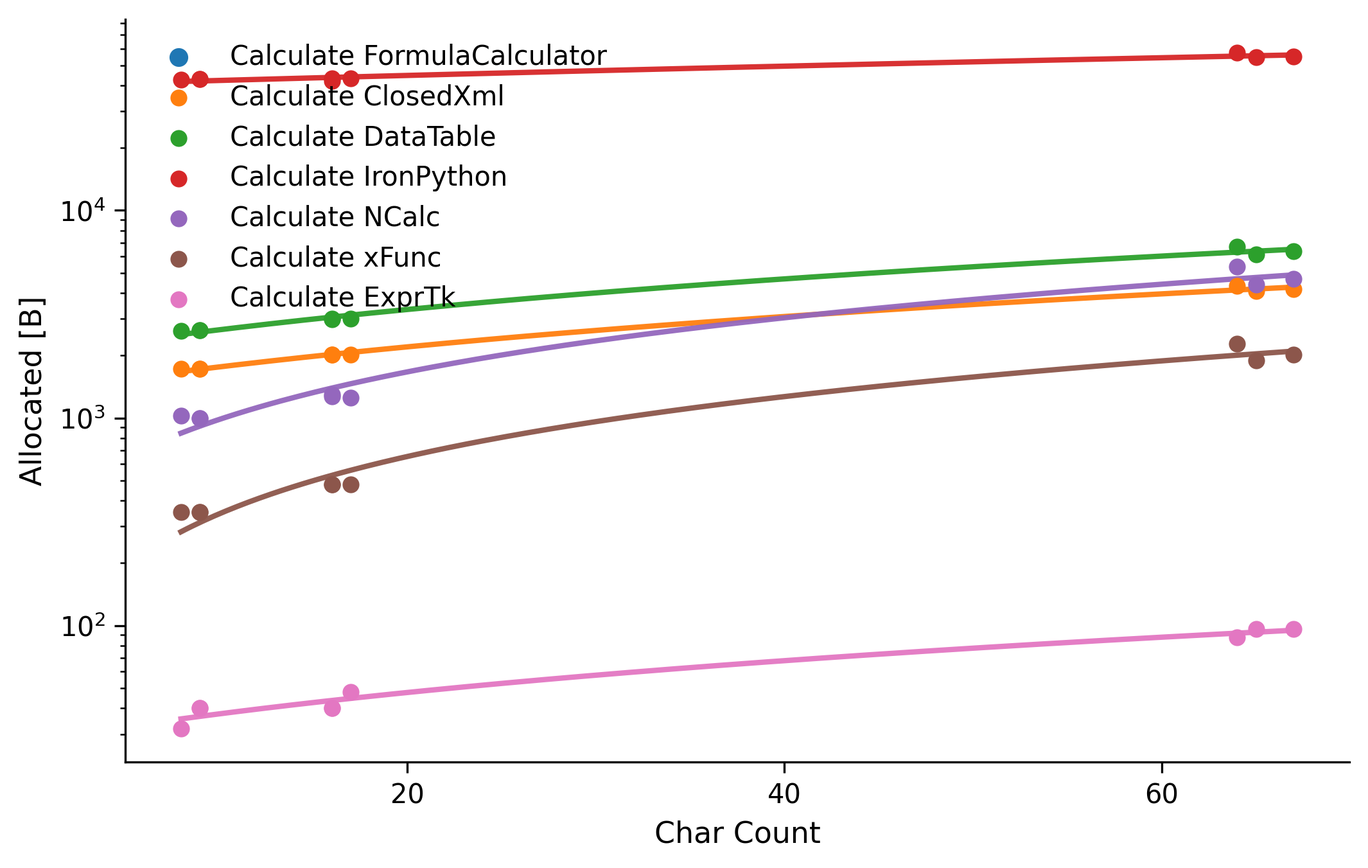
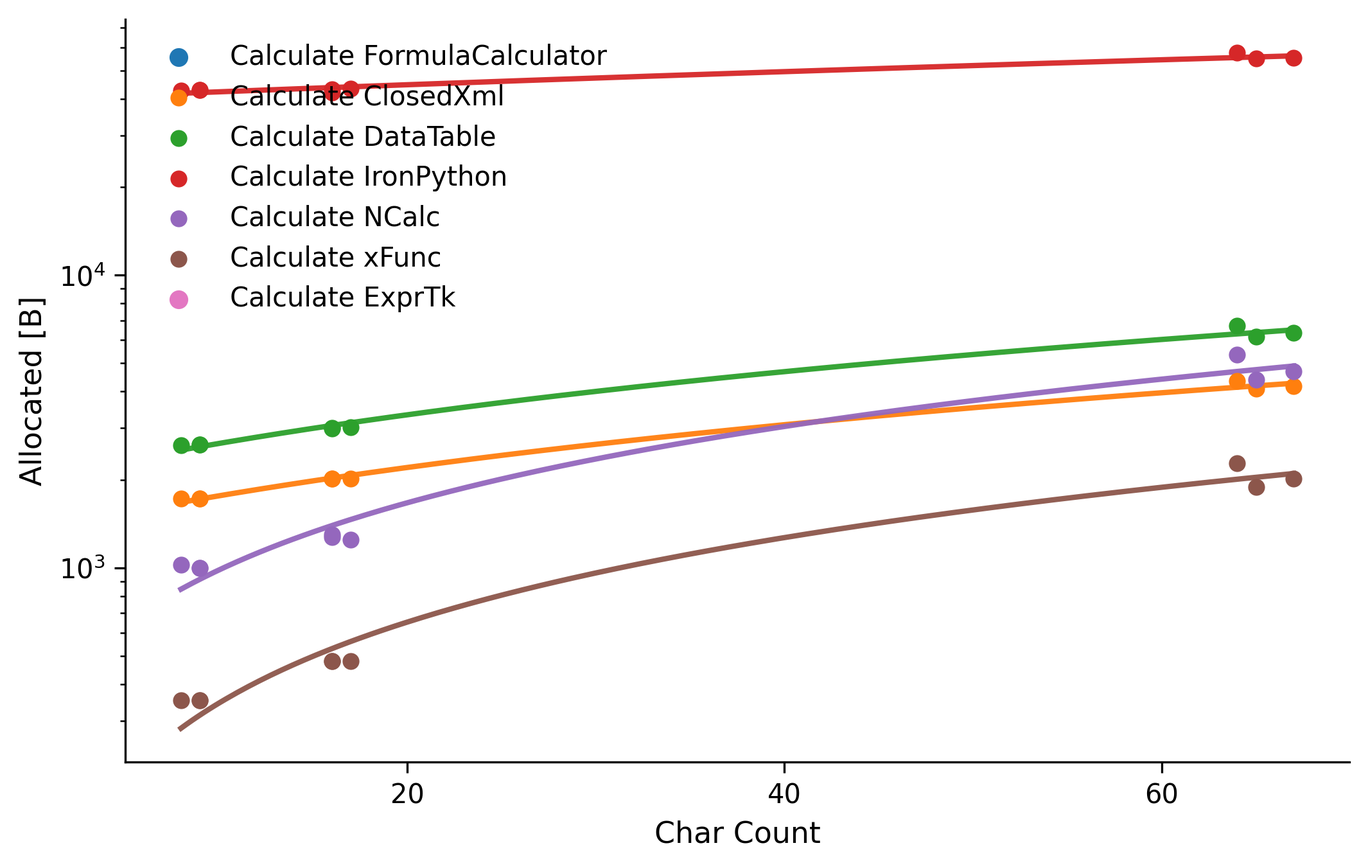
Enable unsafe code and optimize expression calculation in benchmarks

diff --git a/dotnet/BenchmarkResults/BenchmarkLibraryComparisonResult.html b/dotnet/BenchmarkResults/BenchmarkLibraryComparisonResult.html
@@ -2,7 +2,7 @@
 <html lang='en'>
 <head>
 <meta charset='utf-8' />
-<title>foriver4725.FormulaCalculator.Benchmarks.LibraryComparison.Benchmarks-20260329-223422</title>
+<title>foriver4725.FormulaCalculator.Benchmarks.LibraryComparison.Benchmarks-20260403-201037</title>
 
 <style type="text/css">
 	table { border-collapse: collapse; display: block; width: 100%; overflow: auto; }
@@ -24,69 +24,69 @@ Apple M3, 1 CPU, 8 logical and 8 physical cores
 <table>
 <thead><tr><th>Method               </th><th>Input</th><th>Case</th><th>Char Count</th><th>Mean  </th><th>Error</th><th>StdDev</th><th>Gen0</th><th>Gen1</th><th>Allocated</th>
 </tr>
-</thead><tbody><tr><td>Calculate_FormulaCalculator</td><td>Len08_A</td><td>Len08_A</td><td>8</td><td>21.67 ns</td><td>0.161 ns</td><td>0.150 ns</td><td>-</td><td>-</td><td>-</td>
-</tr><tr><td>Calculate_FormulaCalculator</td><td>Len08_B</td><td>Len08_B</td><td>9</td><td>23.16 ns</td><td>0.097 ns</td><td>0.086 ns</td><td>-</td><td>-</td><td>-</td>
-</tr><tr><td>Calculate_FormulaCalculator</td><td>Len08_C</td><td>Len08_C</td><td>9</td><td>22.02 ns</td><td>0.082 ns</td><td>0.068 ns</td><td>-</td><td>-</td><td>-</td>
-</tr><tr><td>Calculate_FormulaCalculator</td><td>Len16_A</td><td>Len16_A</td><td>16</td><td>36.86 ns</td><td>0.176 ns</td><td>0.156 ns</td><td>-</td><td>-</td><td>-</td>
-</tr><tr><td>Calculate_FormulaCalculator</td><td>Len16_B</td><td>Len16_B</td><td>16</td><td>35.18 ns</td><td>0.183 ns</td><td>0.143 ns</td><td>-</td><td>-</td><td>-</td>
-</tr><tr><td>Calculate_FormulaCalculator</td><td>Len16_C</td><td>Len16_C</td><td>17</td><td>34.83 ns</td><td>0.210 ns</td><td>0.186 ns</td><td>-</td><td>-</td><td>-</td>
-</tr><tr><td>Calculate_FormulaCalculator</td><td>Len64_A</td><td>Len64_A</td><td>64</td><td>193.33 ns</td><td>2.758 ns</td><td>2.580 ns</td><td>-</td><td>-</td><td>-</td>
-</tr><tr><td>Calculate_FormulaCalculator</td><td>Len64_B</td><td>Len64_B</td><td>65</td><td>161.59 ns</td><td>2.408 ns</td><td>2.253 ns</td><td>-</td><td>-</td><td>-</td>
-</tr><tr><td>Calculate_FormulaCalculator</td><td>Len64_C</td><td>Len64_C</td><td>67</td><td>177.57 ns</td><td>3.569 ns</td><td>3.339 ns</td><td>-</td><td>-</td><td>-</td>
-</tr><tr><td>Calculate_ClosedXml</td><td>Len08_A</td><td>Len08_A</td><td>8</td><td>835.39 ns</td><td>6.488 ns</td><td>6.069 ns</td><td>0.2050</td><td>-</td><td>1720 B</td>
-</tr><tr><td>Calculate_ClosedXml</td><td>Len08_B</td><td>Len08_B</td><td>9</td><td>847.96 ns</td><td>5.792 ns</td><td>5.134 ns</td><td>0.2050</td><td>-</td><td>1720 B</td>
-</tr><tr><td>Calculate_ClosedXml</td><td>Len08_C</td><td>Len08_C</td><td>9</td><td>843.21 ns</td><td>4.962 ns</td><td>4.642 ns</td><td>0.2050</td><td>-</td><td>1720 B</td>
-</tr><tr><td>Calculate_ClosedXml</td><td>Len16_A</td><td>Len16_A</td><td>16</td><td>1,113.56 ns</td><td>4.290 ns</td><td>3.803 ns</td><td>0.2403</td><td>-</td><td>2016 B</td>
-</tr><tr><td>Calculate_ClosedXml</td><td>Len16_B</td><td>Len16_B</td><td>16</td><td>1,119.24 ns</td><td>2.089 ns</td><td>1.852 ns</td><td>0.2403</td><td>-</td><td>2016 B</td>
-</tr><tr><td>Calculate_ClosedXml</td><td>Len16_C</td><td>Len16_C</td><td>17</td><td>1,138.00 ns</td><td>10.711 ns</td><td>10.019 ns</td><td>0.2403</td><td>-</td><td>2016 B</td>
-</tr><tr><td>Calculate_ClosedXml</td><td>Len64_A</td><td>Len64_A</td><td>64</td><td>3,826.67 ns</td><td>11.647 ns</td><td>10.325 ns</td><td>0.5112</td><td>-</td><td>4336 B</td>
-</tr><tr><td>Calculate_ClosedXml</td><td>Len64_B</td><td>Len64_B</td><td>65</td><td>3,553.96 ns</td><td>17.985 ns</td><td>15.019 ns</td><td>0.4883</td><td>-</td><td>4096 B</td>
-</tr><tr><td>Calculate_ClosedXml</td><td>Len64_C</td><td>Len64_C</td><td>67</td><td>3,637.50 ns</td><td>14.947 ns</td><td>13.250 ns</td><td>0.4959</td><td>-</td><td>4176 B</td>
-</tr><tr><td>Calculate_DataTable</td><td>Len08_A</td><td>Len08_A</td><td>8</td><td>382.54 ns</td><td>6.775 ns</td><td>5.289 ns</td><td>0.3133</td><td>0.0005</td><td>2624 B</td>
-</tr><tr><td>Calculate_DataTable</td><td>Len08_B</td><td>Len08_B</td><td>9</td><td>419.52 ns</td><td>6.919 ns</td><td>6.134 ns</td><td>0.3152</td><td>0.0005</td><td>2640 B</td>
-</tr><tr><td>Calculate_DataTable</td><td>Len08_C</td><td>Len08_C</td><td>9</td><td>400.51 ns</td><td>6.673 ns</td><td>6.242 ns</td><td>0.3152</td><td>-</td><td>2640 B</td>
-</tr><tr><td>Calculate_DataTable</td><td>Len16_A</td><td>Len16_A</td><td>16</td><td>574.84 ns</td><td>2.596 ns</td><td>2.428 ns</td><td>0.3548</td><td>-</td><td>2992 B</td>
-</tr><tr><td>Calculate_DataTable</td><td>Len16_B</td><td>Len16_B</td><td>16</td><td>613.33 ns</td><td>3.158 ns</td><td>2.954 ns</td><td>0.3586</td><td>-</td><td>3000 B</td>
-</tr><tr><td>Calculate_DataTable</td><td>Len16_C</td><td>Len16_C</td><td>17</td><td>627.42 ns</td><td>3.460 ns</td><td>3.067 ns</td><td>0.3586</td><td>-</td><td>3016 B</td>
-</tr><tr><td>Calculate_DataTable</td><td>Len64_A</td><td>Len64_A</td><td>64</td><td>2,448.38 ns</td><td>8.338 ns</td><td>7.391 ns</td><td>0.8011</td><td>0.0038</td><td>6704 B</td>
-</tr><tr><td>Calculate_DataTable</td><td>Len64_B</td><td>Len64_B</td><td>65</td><td>2,309.91 ns</td><td>15.628 ns</td><td>14.618 ns</td><td>0.7324</td><td>-</td><td>6152 B</td>
-</tr><tr><td>Calculate_DataTable</td><td>Len64_C</td><td>Len64_C</td><td>67</td><td>2,352.75 ns</td><td>10.606 ns</td><td>9.921 ns</td><td>0.7477</td><td>-</td><td>6344 B</td>
-</tr><tr><td>Calculate_IronPython</td><td>Len08_A</td><td>Len08_A</td><td>8</td><td>10,207.28 ns</td><td>57.716 ns</td><td>53.988 ns</td><td>5.0964</td><td>0.4578</td><td>42683 B</td>
-</tr><tr><td>Calculate_IronPython</td><td>Len08_B</td><td>Len08_B</td><td>9</td><td>9,953.38 ns</td><td>68.044 ns</td><td>60.319 ns</td><td>5.1117</td><td>0.3815</td><td>42836 B</td>
-</tr><tr><td>Calculate_IronPython</td><td>Len08_C</td><td>Len08_C</td><td>9</td><td>10,447.36 ns</td><td>73.371 ns</td><td>61.268 ns</td><td>5.0659</td><td>0.3662</td><td>42828 B</td>
-</tr><tr><td>Calculate_IronPython</td><td>Len16_A</td><td>Len16_A</td><td>16</td><td>10,665.03 ns</td><td>93.897 ns</td><td>78.408 ns</td><td>5.1270</td><td>0.3662</td><td>43108 B</td>
-</tr><tr><td>Calculate_IronPython</td><td>Len16_B</td><td>Len16_B</td><td>16</td><td>10,135.15 ns</td><td>103.600 ns</td><td>80.884 ns</td><td>5.0049</td><td>0.4272</td><td>42044 B</td>
-</tr><tr><td>Calculate_IronPython</td><td>Len16_C</td><td>Len16_C</td><td>17</td><td>10,494.19 ns</td><td>106.510 ns</td><td>88.941 ns</td><td>5.1270</td><td>0.3662</td><td>43284 B</td>
-</tr><tr><td>Calculate_IronPython</td><td>Len64_A</td><td>Len64_A</td><td>64</td><td>18,796.86 ns</td><td>307.319 ns</td><td>256.625 ns</td><td>6.8359</td><td>0.4883</td><td>57486 B</td>
-</tr><tr><td>Calculate_IronPython</td><td>Len64_B</td><td>Len64_B</td><td>65</td><td>17,165.60 ns</td><td>161.917 ns</td><td>135.208 ns</td><td>6.4697</td><td>0.4883</td><td>54845 B</td>
-</tr><tr><td>Calculate_IronPython</td><td>Len64_C</td><td>Len64_C</td><td>67</td><td>17,294.58 ns</td><td>138.139 ns</td><td>115.352 ns</td><td>6.5918</td><td>0.4883</td><td>55197 B</td>
-</tr><tr><td>Calculate_NCalc</td><td>Len08_A</td><td>Len08_A</td><td>8</td><td>197.97 ns</td><td>0.774 ns</td><td>0.686 ns</td><td>0.1223</td><td>0.0002</td><td>1024 B</td>
-</tr><tr><td>Calculate_NCalc</td><td>Len08_B</td><td>Len08_B</td><td>9</td><td>190.17 ns</td><td>0.775 ns</td><td>0.687 ns</td><td>0.1194</td><td>-</td><td>1000 B</td>
-</tr><tr><td>Calculate_NCalc</td><td>Len08_C</td><td>Len08_C</td><td>9</td><td>190.28 ns</td><td>1.063 ns</td><td>0.994 ns</td><td>0.1194</td><td>0.0002</td><td>1000 B</td>
-</tr><tr><td>Calculate_NCalc</td><td>Len16_A</td><td>Len16_A</td><td>16</td><td>267.12 ns</td><td>1.076 ns</td><td>1.007 ns</td><td>0.1545</td><td>-</td><td>1296 B</td>
-</tr><tr><td>Calculate_NCalc</td><td>Len16_B</td><td>Len16_B</td><td>16</td><td>260.93 ns</td><td>0.883 ns</td><td>0.737 ns</td><td>0.1516</td><td>-</td><td>1272 B</td>
-</tr><tr><td>Calculate_NCalc</td><td>Len16_C</td><td>Len16_C</td><td>17</td><td>248.00 ns</td><td>1.163 ns</td><td>1.088 ns</td><td>0.1488</td><td>-</td><td>1248 B</td>
-</tr><tr><td>Calculate_NCalc</td><td>Len64_A</td><td>Len64_A</td><td>64</td><td>1,378.00 ns</td><td>2.235 ns</td><td>1.745 ns</td><td>0.6371</td><td>0.0019</td><td>5344 B</td>
-</tr><tr><td>Calculate_NCalc</td><td>Len64_B</td><td>Len64_B</td><td>65</td><td>1,149.37 ns</td><td>1.251 ns</td><td>1.109 ns</td><td>0.5226</td><td>0.0019</td><td>4384 B</td>
-</tr><tr><td>Calculate_NCalc</td><td>Len64_C</td><td>Len64_C</td><td>67</td><td>1,185.20 ns</td><td>2.262 ns</td><td>2.005 ns</td><td>0.5589</td><td>0.0019</td><td>4680 B</td>
-</tr><tr><td>Calculate_xFunc</td><td>Len08_A</td><td>Len08_A</td><td>8</td><td>346.66 ns</td><td>6.298 ns</td><td>5.891 ns</td><td>0.0420</td><td>-</td><td>352 B</td>
-</tr><tr><td>Calculate_xFunc</td><td>Len08_B</td><td>Len08_B</td><td>9</td><td>346.55 ns</td><td>6.905 ns</td><td>6.459 ns</td><td>0.0420</td><td>0.0005</td><td>352 B</td>
-</tr><tr><td>Calculate_xFunc</td><td>Len08_C</td><td>Len08_C</td><td>9</td><td>352.20 ns</td><td>6.798 ns</td><td>6.676 ns</td><td>0.0420</td><td>-</td><td>352 B</td>
-</tr><tr><td>Calculate_xFunc</td><td>Len16_A</td><td>Len16_A</td><td>16</td><td>594.41 ns</td><td>11.722 ns</td><td>10.965 ns</td><td>0.0572</td><td>-</td><td>480 B</td>
-</tr><tr><td>Calculate_xFunc</td><td>Len16_B</td><td>Len16_B</td><td>16</td><td>593.97 ns</td><td>8.729 ns</td><td>8.165 ns</td><td>0.0572</td><td>-</td><td>480 B</td>
-</tr><tr><td>Calculate_xFunc</td><td>Len16_C</td><td>Len16_C</td><td>17</td><td>602.53 ns</td><td>11.475 ns</td><td>11.270 ns</td><td>0.0572</td><td>-</td><td>480 B</td>
-</tr><tr><td>Calculate_xFunc</td><td>Len64_A</td><td>Len64_A</td><td>64</td><td>3,000.94 ns</td><td>51.652 ns</td><td>48.316 ns</td><td>0.2708</td><td>-</td><td>2272 B</td>
-</tr><tr><td>Calculate_xFunc</td><td>Len64_B</td><td>Len64_B</td><td>65</td><td>2,678.76 ns</td><td>52.636 ns</td><td>58.505 ns</td><td>0.2251</td><td>0.0038</td><td>1888 B</td>
-</tr><tr><td>Calculate_xFunc</td><td>Len64_C</td><td>Len64_C</td><td>67</td><td>2,742.38 ns</td><td>54.208 ns</td><td>50.706 ns</td><td>0.2403</td><td>-</td><td>2016 B</td>
-</tr><tr><td>Calculate_ExprTk</td><td>Len08_A</td><td>Len08_A</td><td>8</td><td>35,204.00 ns</td><td>680.899 ns</td><td>668.734 ns</td><td>-</td><td>-</td><td>32 B</td>
-</tr><tr><td>Calculate_ExprTk</td><td>Len08_B</td><td>Len08_B</td><td>9</td><td>35,349.75 ns</td><td>574.002 ns</td><td>536.922 ns</td><td>-</td><td>-</td><td>40 B</td>
-</tr><tr><td>Calculate_ExprTk</td><td>Len08_C</td><td>Len08_C</td><td>9</td><td>35,245.15 ns</td><td>677.272 ns</td><td>779.947 ns</td><td>-</td><td>-</td><td>40 B</td>
-</tr><tr><td>Calculate_ExprTk</td><td>Len16_A</td><td>Len16_A</td><td>16</td><td>36,427.32 ns</td><td>696.427 ns</td><td>715.179 ns</td><td>-</td><td>-</td><td>40 B</td>
-</tr><tr><td>Calculate_ExprTk</td><td>Len16_B</td><td>Len16_B</td><td>16</td><td>36,408.77 ns</td><td>722.211 ns</td><td>772.758 ns</td><td>-</td><td>-</td><td>40 B</td>
-</tr><tr><td>Calculate_ExprTk</td><td>Len16_C</td><td>Len16_C</td><td>17</td><td>36,624.77 ns</td><td>679.909 ns</td><td>667.761 ns</td><td>-</td><td>-</td><td>48 B</td>
-</tr><tr><td>Calculate_ExprTk</td><td>Len64_A</td><td>Len64_A</td><td>64</td><td>46,967.93 ns</td><td>742.558 ns</td><td>694.589 ns</td><td>-</td><td>-</td><td>88 B</td>
-</tr><tr><td>Calculate_ExprTk</td><td>Len64_B</td><td>Len64_B</td><td>65</td><td>44,581.59 ns</td><td>714.889 ns</td><td>668.707 ns</td><td>-</td><td>-</td><td>96 B</td>
-</tr><tr><td>Calculate_ExprTk</td><td>Len64_C</td><td>Len64_C</td><td>67</td><td>45,142.81 ns</td><td>851.772 ns</td><td>796.748 ns</td><td>-</td><td>-</td><td>96 B</td>
+</thead><tbody><tr><td>Calculate_FormulaCalculator</td><td>Len08_A</td><td>Len08_A</td><td>8</td><td>21.89 ns</td><td>0.458 ns</td><td>0.428 ns</td><td>-</td><td>-</td><td>-</td>
+</tr><tr><td>Calculate_FormulaCalculator</td><td>Len08_B</td><td>Len08_B</td><td>9</td><td>22.51 ns</td><td>0.157 ns</td><td>0.139 ns</td><td>-</td><td>-</td><td>-</td>
+</tr><tr><td>Calculate_FormulaCalculator</td><td>Len08_C</td><td>Len08_C</td><td>9</td><td>21.71 ns</td><td>0.097 ns</td><td>0.081 ns</td><td>-</td><td>-</td><td>-</td>
+</tr><tr><td>Calculate_FormulaCalculator</td><td>Len16_A</td><td>Len16_A</td><td>16</td><td>36.75 ns</td><td>0.148 ns</td><td>0.131 ns</td><td>-</td><td>-</td><td>-</td>
+</tr><tr><td>Calculate_FormulaCalculator</td><td>Len16_B</td><td>Len16_B</td><td>16</td><td>35.43 ns</td><td>0.324 ns</td><td>0.287 ns</td><td>-</td><td>-</td><td>-</td>
+</tr><tr><td>Calculate_FormulaCalculator</td><td>Len16_C</td><td>Len16_C</td><td>17</td><td>34.44 ns</td><td>0.216 ns</td><td>0.202 ns</td><td>-</td><td>-</td><td>-</td>
+</tr><tr><td>Calculate_FormulaCalculator</td><td>Len64_A</td><td>Len64_A</td><td>64</td><td>192.44 ns</td><td>2.133 ns</td><td>1.995 ns</td><td>-</td><td>-</td><td>-</td>
+</tr><tr><td>Calculate_FormulaCalculator</td><td>Len64_B</td><td>Len64_B</td><td>65</td><td>160.79 ns</td><td>2.478 ns</td><td>2.318 ns</td><td>-</td><td>-</td><td>-</td>
+</tr><tr><td>Calculate_FormulaCalculator</td><td>Len64_C</td><td>Len64_C</td><td>67</td><td>176.52 ns</td><td>3.545 ns</td><td>3.641 ns</td><td>-</td><td>-</td><td>-</td>
+</tr><tr><td>Calculate_ClosedXml</td><td>Len08_A</td><td>Len08_A</td><td>8</td><td>835.21 ns</td><td>3.478 ns</td><td>3.253 ns</td><td>0.2050</td><td>-</td><td>1720 B</td>
+</tr><tr><td>Calculate_ClosedXml</td><td>Len08_B</td><td>Len08_B</td><td>9</td><td>855.10 ns</td><td>5.380 ns</td><td>5.032 ns</td><td>0.2050</td><td>-</td><td>1720 B</td>
+</tr><tr><td>Calculate_ClosedXml</td><td>Len08_C</td><td>Len08_C</td><td>9</td><td>856.86 ns</td><td>4.320 ns</td><td>3.607 ns</td><td>0.2050</td><td>-</td><td>1720 B</td>
+</tr><tr><td>Calculate_ClosedXml</td><td>Len16_A</td><td>Len16_A</td><td>16</td><td>1,123.98 ns</td><td>3.585 ns</td><td>3.353 ns</td><td>0.2403</td><td>-</td><td>2016 B</td>
+</tr><tr><td>Calculate_ClosedXml</td><td>Len16_B</td><td>Len16_B</td><td>16</td><td>1,130.33 ns</td><td>3.216 ns</td><td>2.851 ns</td><td>0.2403</td><td>-</td><td>2016 B</td>
+</tr><tr><td>Calculate_ClosedXml</td><td>Len16_C</td><td>Len16_C</td><td>17</td><td>1,150.69 ns</td><td>6.532 ns</td><td>6.110 ns</td><td>0.2403</td><td>-</td><td>2016 B</td>
+</tr><tr><td>Calculate_ClosedXml</td><td>Len64_A</td><td>Len64_A</td><td>64</td><td>3,889.22 ns</td><td>9.824 ns</td><td>9.190 ns</td><td>0.5112</td><td>-</td><td>4336 B</td>
+</tr><tr><td>Calculate_ClosedXml</td><td>Len64_B</td><td>Len64_B</td><td>65</td><td>3,397.87 ns</td><td>14.484 ns</td><td>12.095 ns</td><td>0.4883</td><td>-</td><td>4096 B</td>
+</tr><tr><td>Calculate_ClosedXml</td><td>Len64_C</td><td>Len64_C</td><td>67</td><td>3,623.39 ns</td><td>17.475 ns</td><td>16.346 ns</td><td>0.4959</td><td>-</td><td>4176 B</td>
+</tr><tr><td>Calculate_DataTable</td><td>Len08_A</td><td>Len08_A</td><td>8</td><td>388.87 ns</td><td>2.332 ns</td><td>2.182 ns</td><td>0.3133</td><td>0.0005</td><td>2624 B</td>
+</tr><tr><td>Calculate_DataTable</td><td>Len08_B</td><td>Len08_B</td><td>9</td><td>414.30 ns</td><td>7.301 ns</td><td>6.829 ns</td><td>0.3152</td><td>0.0005</td><td>2640 B</td>
+</tr><tr><td>Calculate_DataTable</td><td>Len08_C</td><td>Len08_C</td><td>9</td><td>408.05 ns</td><td>3.793 ns</td><td>3.548 ns</td><td>0.3152</td><td>-</td><td>2640 B</td>
+</tr><tr><td>Calculate_DataTable</td><td>Len16_A</td><td>Len16_A</td><td>16</td><td>571.54 ns</td><td>2.944 ns</td><td>2.754 ns</td><td>0.3548</td><td>-</td><td>2992 B</td>
+</tr><tr><td>Calculate_DataTable</td><td>Len16_B</td><td>Len16_B</td><td>16</td><td>612.57 ns</td><td>4.124 ns</td><td>3.858 ns</td><td>0.3586</td><td>-</td><td>3000 B</td>
+</tr><tr><td>Calculate_DataTable</td><td>Len16_C</td><td>Len16_C</td><td>17</td><td>631.32 ns</td><td>2.139 ns</td><td>2.001 ns</td><td>0.3586</td><td>-</td><td>3016 B</td>
+</tr><tr><td>Calculate_DataTable</td><td>Len64_A</td><td>Len64_A</td><td>64</td><td>2,452.50 ns</td><td>8.593 ns</td><td>8.038 ns</td><td>0.7935</td><td>-</td><td>6704 B</td>
+</tr><tr><td>Calculate_DataTable</td><td>Len64_B</td><td>Len64_B</td><td>65</td><td>2,340.80 ns</td><td>19.408 ns</td><td>18.154 ns</td><td>0.7324</td><td>-</td><td>6152 B</td>
+</tr><tr><td>Calculate_DataTable</td><td>Len64_C</td><td>Len64_C</td><td>67</td><td>2,387.95 ns</td><td>13.852 ns</td><td>12.957 ns</td><td>0.7477</td><td>-</td><td>6344 B</td>
+</tr><tr><td>Calculate_IronPython</td><td>Len08_A</td><td>Len08_A</td><td>8</td><td>9,918.66 ns</td><td>93.264 ns</td><td>87.239 ns</td><td>5.0964</td><td>0.4578</td><td>42683 B</td>
+</tr><tr><td>Calculate_IronPython</td><td>Len08_B</td><td>Len08_B</td><td>9</td><td>9,980.16 ns</td><td>72.612 ns</td><td>67.922 ns</td><td>5.1117</td><td>0.3815</td><td>42836 B</td>
+</tr><tr><td>Calculate_IronPython</td><td>Len08_C</td><td>Len08_C</td><td>9</td><td>10,466.19 ns</td><td>80.814 ns</td><td>75.594 ns</td><td>5.0659</td><td>0.3662</td><td>42828 B</td>
+</tr><tr><td>Calculate_IronPython</td><td>Len16_A</td><td>Len16_A</td><td>16</td><td>10,657.89 ns</td><td>88.630 ns</td><td>82.905 ns</td><td>5.1270</td><td>0.3662</td><td>43108 B</td>
+</tr><tr><td>Calculate_IronPython</td><td>Len16_B</td><td>Len16_B</td><td>16</td><td>10,015.94 ns</td><td>135.260 ns</td><td>126.522 ns</td><td>5.0049</td><td>0.4272</td><td>42044 B</td>
+</tr><tr><td>Calculate_IronPython</td><td>Len16_C</td><td>Len16_C</td><td>17</td><td>10,564.43 ns</td><td>69.028 ns</td><td>64.569 ns</td><td>5.1270</td><td>0.3662</td><td>43284 B</td>
+</tr><tr><td>Calculate_IronPython</td><td>Len64_A</td><td>Len64_A</td><td>64</td><td>18,642.51 ns</td><td>260.965 ns</td><td>244.107 ns</td><td>6.8359</td><td>0.4883</td><td>57486 B</td>
+</tr><tr><td>Calculate_IronPython</td><td>Len64_B</td><td>Len64_B</td><td>65</td><td>16,765.16 ns</td><td>134.484 ns</td><td>125.796 ns</td><td>6.4697</td><td>0.4883</td><td>54845 B</td>
+</tr><tr><td>Calculate_IronPython</td><td>Len64_C</td><td>Len64_C</td><td>67</td><td>16,992.80 ns</td><td>106.027 ns</td><td>99.178 ns</td><td>6.5918</td><td>0.4883</td><td>55197 B</td>
+</tr><tr><td>Calculate_NCalc</td><td>Len08_A</td><td>Len08_A</td><td>8</td><td>196.32 ns</td><td>1.870 ns</td><td>1.657 ns</td><td>0.1223</td><td>-</td><td>1024 B</td>
+</tr><tr><td>Calculate_NCalc</td><td>Len08_B</td><td>Len08_B</td><td>9</td><td>189.36 ns</td><td>0.767 ns</td><td>0.718 ns</td><td>0.1194</td><td>-</td><td>1000 B</td>
+</tr><tr><td>Calculate_NCalc</td><td>Len08_C</td><td>Len08_C</td><td>9</td><td>186.45 ns</td><td>2.240 ns</td><td>2.095 ns</td><td>0.1194</td><td>-</td><td>1000 B</td>
+</tr><tr><td>Calculate_NCalc</td><td>Len16_A</td><td>Len16_A</td><td>16</td><td>297.12 ns</td><td>1.159 ns</td><td>1.084 ns</td><td>0.1545</td><td>-</td><td>1296 B</td>
+</tr><tr><td>Calculate_NCalc</td><td>Len16_B</td><td>Len16_B</td><td>16</td><td>261.86 ns</td><td>0.704 ns</td><td>0.588 ns</td><td>0.1516</td><td>-</td><td>1272 B</td>
+</tr><tr><td>Calculate_NCalc</td><td>Len16_C</td><td>Len16_C</td><td>17</td><td>247.65 ns</td><td>0.596 ns</td><td>0.557 ns</td><td>0.1488</td><td>-</td><td>1248 B</td>
+</tr><tr><td>Calculate_NCalc</td><td>Len64_A</td><td>Len64_A</td><td>64</td><td>1,389.48 ns</td><td>2.934 ns</td><td>2.450 ns</td><td>0.6371</td><td>0.0019</td><td>5344 B</td>
+</tr><tr><td>Calculate_NCalc</td><td>Len64_B</td><td>Len64_B</td><td>65</td><td>1,133.92 ns</td><td>1.565 ns</td><td>1.464 ns</td><td>0.5226</td><td>0.0019</td><td>4384 B</td>
+</tr><tr><td>Calculate_NCalc</td><td>Len64_C</td><td>Len64_C</td><td>67</td><td>1,080.65 ns</td><td>1.585 ns</td><td>1.405 ns</td><td>0.5589</td><td>0.0019</td><td>4680 B</td>
+</tr><tr><td>Calculate_xFunc</td><td>Len08_A</td><td>Len08_A</td><td>8</td><td>338.06 ns</td><td>0.584 ns</td><td>0.456 ns</td><td>0.0420</td><td>-</td><td>352 B</td>
+</tr><tr><td>Calculate_xFunc</td><td>Len08_B</td><td>Len08_B</td><td>9</td><td>342.14 ns</td><td>0.791 ns</td><td>0.740 ns</td><td>0.0420</td><td>-</td><td>352 B</td>
+</tr><tr><td>Calculate_xFunc</td><td>Len08_C</td><td>Len08_C</td><td>9</td><td>338.30 ns</td><td>0.715 ns</td><td>0.669 ns</td><td>0.0420</td><td>-</td><td>352 B</td>
+</tr><tr><td>Calculate_xFunc</td><td>Len16_A</td><td>Len16_A</td><td>16</td><td>566.78 ns</td><td>3.248 ns</td><td>3.038 ns</td><td>0.0572</td><td>-</td><td>480 B</td>
+</tr><tr><td>Calculate_xFunc</td><td>Len16_B</td><td>Len16_B</td><td>16</td><td>556.56 ns</td><td>2.125 ns</td><td>1.884 ns</td><td>0.0572</td><td>-</td><td>480 B</td>
+</tr><tr><td>Calculate_xFunc</td><td>Len16_C</td><td>Len16_C</td><td>17</td><td>555.61 ns</td><td>1.131 ns</td><td>1.058 ns</td><td>0.0572</td><td>-</td><td>480 B</td>
+</tr><tr><td>Calculate_xFunc</td><td>Len64_A</td><td>Len64_A</td><td>64</td><td>2,943.05 ns</td><td>8.477 ns</td><td>7.929 ns</td><td>0.2708</td><td>-</td><td>2272 B</td>
+</tr><tr><td>Calculate_xFunc</td><td>Len64_B</td><td>Len64_B</td><td>65</td><td>2,526.29 ns</td><td>6.291 ns</td><td>5.885 ns</td><td>0.2251</td><td>-</td><td>1888 B</td>
+</tr><tr><td>Calculate_xFunc</td><td>Len64_C</td><td>Len64_C</td><td>67</td><td>2,630.50 ns</td><td>5.780 ns</td><td>5.407 ns</td><td>0.2403</td><td>-</td><td>2016 B</td>
+</tr><tr><td>Calculate_ExprTk</td><td>Len08_A</td><td>Len08_A</td><td>8</td><td>34,275.61 ns</td><td>203.251 ns</td><td>190.121 ns</td><td>-</td><td>-</td><td>-</td>
+</tr><tr><td>Calculate_ExprTk</td><td>Len08_B</td><td>Len08_B</td><td>9</td><td>34,451.75 ns</td><td>131.928 ns</td><td>116.951 ns</td><td>-</td><td>-</td><td>-</td>
+</tr><tr><td>Calculate_ExprTk</td><td>Len08_C</td><td>Len08_C</td><td>9</td><td>34,407.37 ns</td><td>107.142 ns</td><td>100.221 ns</td><td>-</td><td>-</td><td>-</td>
+</tr><tr><td>Calculate_ExprTk</td><td>Len16_A</td><td>Len16_A</td><td>16</td><td>35,368.64 ns</td><td>139.659 ns</td><td>123.804 ns</td><td>-</td><td>-</td><td>-</td>
+</tr><tr><td>Calculate_ExprTk</td><td>Len16_B</td><td>Len16_B</td><td>16</td><td>35,488.66 ns</td><td>129.281 ns</td><td>107.955 ns</td><td>-</td><td>-</td><td>-</td>
+</tr><tr><td>Calculate_ExprTk</td><td>Len16_C</td><td>Len16_C</td><td>17</td><td>35,418.56 ns</td><td>184.912 ns</td><td>163.920 ns</td><td>-</td><td>-</td><td>-</td>
+</tr><tr><td>Calculate_ExprTk</td><td>Len64_A</td><td>Len64_A</td><td>64</td><td>46,183.22 ns</td><td>204.457 ns</td><td>191.249 ns</td><td>-</td><td>-</td><td>-</td>
+</tr><tr><td>Calculate_ExprTk</td><td>Len64_B</td><td>Len64_B</td><td>65</td><td>43,953.11 ns</td><td>324.386 ns</td><td>303.431 ns</td><td>-</td><td>-</td><td>-</td>
+</tr><tr><td>Calculate_ExprTk</td><td>Len64_C</td><td>Len64_C</td><td>67</td><td>44,669.55 ns</td><td>228.474 ns</td><td>213.715 ns</td><td>-</td><td>-</td><td>-</td>
 </tr></tbody></table>
 </body>
 </html>

diff --git a/dotnet/FormulaCalculator.Benchmarks.LibraryComparison/Benchmarks.cs b/dotnet/FormulaCalculator.Benchmarks.LibraryComparison/Benchmarks.cs
@@ -24,12 +24,23 @@ namespace foriver4725.FormulaCalculator.Benchmarks.LibraryComparison;
 internal static class Native_ExprTk
 {
     [DllImport("FormulaCalculator_ExprTk", CallingConvention = CallingConvention.Cdecl)]
-    private static extern double Calculate_ExprTk(byte[] expression, int length);
+    private static extern unsafe double Calculate_ExprTk(byte* expression, int length);
 
-    public static double Calculate(string expression)
+    public static unsafe double Calculate(string expression)
     {
-        byte[] bytes = Encoding.UTF8.GetBytes(expression);
-        return Calculate_ExprTk(bytes, bytes.Length);
+        ReadOnlySpan<char> formulaSpan = expression.AsSpan();
+        int length = formulaSpan.Length;
+
+        Span<byte> buffer = stackalloc byte[length];
+        for (int i = 0; i < length; i++)
+        {
+            buffer[i] = (byte)formulaSpan[i];
+        }
+
+        fixed (byte* p = buffer)
+        {
+            return Calculate_ExprTk(p, length);
+        }
     }
 }
 

diff --git a/dotnet/BenchmarkResults/BenchmarkLibraryComparisonResult.md b/dotnet/BenchmarkResults/BenchmarkLibraryComparisonResult.md
@@ -10,66 +10,66 @@ Apple M3, 1 CPU, 8 logical and 8 physical cores
 ```
 | Method                      | Input   | Case    | Char Count | Mean         | Error      | StdDev     | Gen0   | Gen1   | Allocated |
 |---------------------------- |-------- |-------- |-----------:|-------------:|-----------:|-----------:|-------:|-------:|----------:|
-| Calculate_FormulaCalculator | Len08_A | Len08_A |          8 |     21.67 ns |   0.161 ns |   0.150 ns |      - |      - |         - |
-| Calculate_FormulaCalculator | Len08_B | Len08_B |          9 |     23.16 ns |   0.097 ns |   0.086 ns |      - |      - |         - |
-| Calculate_FormulaCalculator | Len08_C | Len08_C |          9 |     22.02 ns |   0.082 ns |   0.068 ns |      - |      - |         - |
-| Calculate_FormulaCalculator | Len16_A | Len16_A |         16 |     36.86 ns |   0.176 ns |   0.156 ns |      - |      - |         - |
-| Calculate_FormulaCalculator | Len16_B | Len16_B |         16 |     35.18 ns |   0.183 ns |   0.143 ns |      - |      - |         - |
-| Calculate_FormulaCalculator | Len16_C | Len16_C |         17 |     34.83 ns |   0.210 ns |   0.186 ns |      - |      - |         - |
-| Calculate_FormulaCalculator | Len64_A | Len64_A |         64 |    193.33 ns |   2.758 ns |   2.580 ns |      - |      - |         - |
-| Calculate_FormulaCalculator | Len64_B | Len64_B |         65 |    161.59 ns |   2.408 ns |   2.253 ns |      - |      - |         - |
-| Calculate_FormulaCalculator | Len64_C | Len64_C |         67 |    177.57 ns |   3.569 ns |   3.339 ns |      - |      - |         - |
-| Calculate_ClosedXml         | Len08_A | Len08_A |          8 |    835.39 ns |   6.488 ns |   6.069 ns | 0.2050 |      - |    1720 B |
-| Calculate_ClosedXml         | Len08_B | Len08_B |          9 |    847.96 ns |   5.792 ns |   5.134 ns | 0.2050 |      - |    1720 B |
-| Calculate_ClosedXml         | Len08_C | Len08_C |          9 |    843.21 ns |   4.962 ns |   4.642 ns | 0.2050 |      - |    1720 B |
-| Calculate_ClosedXml         | Len16_A | Len16_A |         16 |  1,113.56 ns |   4.290 ns |   3.803 ns | 0.2403 |      - |    2016 B |
-| Calculate_ClosedXml         | Len16_B | Len16_B |         16 |  1,119.24 ns |   2.089 ns |   1.852 ns | 0.2403 |      - |    2016 B |
-| Calculate_ClosedXml         | Len16_C | Len16_C |         17 |  1,138.00 ns |  10.711 ns |  10.019 ns | 0.2403 |      - |    2016 B |
-| Calculate_ClosedXml         | Len64_A | Len64_A |         64 |  3,826.67 ns |  11.647 ns |  10.325 ns | 0.5112 |      - |    4336 B |
-| Calculate_ClosedXml         | Len64_B | Len64_B |         65 |  3,553.96 ns |  17.985 ns |  15.019 ns | 0.4883 |      - |    4096 B |
-| Calculate_ClosedXml         | Len64_C | Len64_C |         67 |  3,637.50 ns |  14.947 ns |  13.250 ns | 0.4959 |      - |    4176 B |
-| Calculate_DataTable         | Len08_A | Len08_A |          8 |    382.54 ns |   6.775 ns |   5.289 ns | 0.3133 | 0.0005 |    2624 B |
-| Calculate_DataTable         | Len08_B | Len08_B |          9 |    419.52 ns |   6.919 ns |   6.134 ns | 0.3152 | 0.0005 |    2640 B |
-| Calculate_DataTable         | Len08_C | Len08_C |          9 |    400.51 ns |   6.673 ns |   6.242 ns | 0.3152 |      - |    2640 B |
-| Calculate_DataTable         | Len16_A | Len16_A |         16 |    574.84 ns |   2.596 ns |   2.428 ns | 0.3548 |      - |    2992 B |
-| Calculate_DataTable         | Len16_B | Len16_B |         16 |    613.33 ns |   3.158 ns |   2.954 ns | 0.3586 |      - |    3000 B |
-| Calculate_DataTable         | Len16_C | Len16_C |         17 |    627.42 ns |   3.460 ns |   3.067 ns | 0.3586 |      - |    3016 B |
-| Calculate_DataTable         | Len64_A | Len64_A |         64 |  2,448.38 ns |   8.338 ns |   7.391 ns | 0.8011 | 0.0038 |    6704 B |
-| Calculate_DataTable         | Len64_B | Len64_B |         65 |  2,309.91 ns |  15.628 ns |  14.618 ns | 0.7324 |      - |    6152 B |
-| Calculate_DataTable         | Len64_C | Len64_C |         67 |  2,352.75 ns |  10.606 ns |   9.921 ns | 0.7477 |      - |    6344 B |
-| Calculate_IronPython        | Len08_A | Len08_A |          8 | 10,207.28 ns |  57.716 ns |  53.988 ns | 5.0964 | 0.4578 |   42683 B |
-| Calculate_IronPython        | Len08_B | Len08_B |          9 |  9,953.38 ns |  68.044 ns |  60.319 ns | 5.1117 | 0.3815 |   42836 B |
-| Calculate_IronPython        | Len08_C | Len08_C |          9 | 10,447.36 ns |  73.371 ns |  61.268 ns | 5.0659 | 0.3662 |   42828 B |
-| Calculate_IronPython        | Len16_A | Len16_A |         16 | 10,665.03 ns |  93.897 ns |  78.408 ns | 5.1270 | 0.3662 |   43108 B |
-| Calculate_IronPython        | Len16_B | Len16_B |         16 | 10,135.15 ns | 103.600 ns |  80.884 ns | 5.0049 | 0.4272 |   42044 B |
-| Calculate_IronPython        | Len16_C | Len16_C |         17 | 10,494.19 ns | 106.510 ns |  88.941 ns | 5.1270 | 0.3662 |   43284 B |
-| Calculate_IronPython        | Len64_A | Len64_A |         64 | 18,796.86 ns | 307.319 ns | 256.625 ns | 6.8359 | 0.4883 |   57486 B |
-| Calculate_IronPython        | Len64_B | Len64_B |         65 | 17,165.60 ns | 161.917 ns | 135.208 ns | 6.4697 | 0.4883 |   54845 B |
-| Calculate_IronPython        | Len64_C | Len64_C |         67 | 17,294.58 ns | 138.139 ns | 115.352 ns | 6.5918 | 0.4883 |   55197 B |
-| Calculate_NCalc             | Len08_A | Len08_A |          8 |    197.97 ns |   0.774 ns |   0.686 ns | 0.1223 | 0.0002 |    1024 B |
-| Calculate_NCalc             | Len08_B | Len08_B |          9 |    190.17 ns |   0.775 ns |   0.687 ns | 0.1194 |      - |    1000 B |
-| Calculate_NCalc             | Len08_C | Len08_C |          9 |    190.28 ns |   1.063 ns |   0.994 ns | 0.1194 | 0.0002 |    1000 B |
-| Calculate_NCalc             | Len16_A | Len16_A |         16 |    267.12 ns |   1.076 ns |   1.007 ns | 0.1545 |      - |    1296 B |
-| Calculate_NCalc             | Len16_B | Len16_B |         16 |    260.93 ns |   0.883 ns |   0.737 ns | 0.1516 |      - |    1272 B |
-| Calculate_NCalc             | Len16_C | Len16_C |         17 |    248.00 ns |   1.163 ns |   1.088 ns | 0.1488 |      - |    1248 B |
-| Calculate_NCalc             | Len64_A | Len64_A |         64 |  1,378.00 ns |   2.235 ns |   1.745 ns | 0.6371 | 0.0019 |    5344 B |
-| Calculate_NCalc             | Len64_B | Len64_B |         65 |  1,149.37 ns |   1.251 ns |   1.109 ns | 0.5226 | 0.0019 |    4384 B |
-| Calculate_NCalc             | Len64_C | Len64_C |         67 |  1,185.20 ns |   2.262 ns |   2.005 ns | 0.5589 | 0.0019 |    4680 B |
-| Calculate_xFunc             | Len08_A | Len08_A |          8 |    346.66 ns |   6.298 ns |   5.891 ns | 0.0420 |      - |     352 B |
-| Calculate_xFunc             | Len08_B | Len08_B |          9 |    346.55 ns |   6.905 ns |   6.459 ns | 0.0420 | 0.0005 |     352 B |
-| Calculate_xFunc             | Len08_C | Len08_C |          9 |    352.20 ns |   6.798 ns |   6.676 ns | 0.0420 |      - |     352 B |
-| Calculate_xFunc             | Len16_A | Len16_A |         16 |    594.41 ns |  11.722 ns |  10.965 ns | 0.0572 |      - |     480 B |
-| Calculate_xFunc             | Len16_B | Len16_B |         16 |    593.97 ns |   8.729 ns |   8.165 ns | 0.0572 |      - |     480 B |
-| Calculate_xFunc             | Len16_C | Len16_C |         17 |    602.53 ns |  11.475 ns |  11.270 ns | 0.0572 |      - |     480 B |
-| Calculate_xFunc             | Len64_A | Len64_A |         64 |  3,000.94 ns |  51.652 ns |  48.316 ns | 0.2708 |      - |    2272 B |
-| Calculate_xFunc             | Len64_B | Len64_B |         65 |  2,678.76 ns |  52.636 ns |  58.505 ns | 0.2251 | 0.0038 |    1888 B |
-| Calculate_xFunc             | Len64_C | Len64_C |         67 |  2,742.38 ns |  54.208 ns |  50.706 ns | 0.2403 |      - |    2016 B |
-| Calculate_ExprTk            | Len08_A | Len08_A |          8 | 35,204.00 ns | 680.899 ns | 668.734 ns |      - |      - |      32 B |
-| Calculate_ExprTk            | Len08_B | Len08_B |          9 | 35,349.75 ns | 574.002 ns | 536.922 ns |      - |      - |      40 B |
-| Calculate_ExprTk            | Len08_C | Len08_C |          9 | 35,245.15 ns | 677.272 ns | 779.947 ns |      - |      - |      40 B |
-| Calculate_ExprTk            | Len16_A | Len16_A |         16 | 36,427.32 ns | 696.427 ns | 715.179 ns |      - |      - |      40 B |
-| Calculate_ExprTk            | Len16_B | Len16_B |         16 | 36,408.77 ns | 722.211 ns | 772.758 ns |      - |      - |      40 B |
-| Calculate_ExprTk            | Len16_C | Len16_C |         17 | 36,624.77 ns | 679.909 ns | 667.761 ns |      - |      - |      48 B |
-| Calculate_ExprTk            | Len64_A | Len64_A |         64 | 46,967.93 ns | 742.558 ns | 694.589 ns |      - |      - |      88 B |
-| Calculate_ExprTk            | Len64_B | Len64_B |         65 | 44,581.59 ns | 714.889 ns | 668.707 ns |      - |      - |      96 B |
-| Calculate_ExprTk            | Len64_C | Len64_C |         67 | 45,142.81 ns | 851.772 ns | 796.748 ns |      - |      - |      96 B |
+| Calculate_FormulaCalculator | Len08_A | Len08_A |          8 |     21.89 ns |   0.458 ns |   0.428 ns |      - |      - |         - |
+| Calculate_FormulaCalculator | Len08_B | Len08_B |          9 |     22.51 ns |   0.157 ns |   0.139 ns |      - |      - |         - |
+| Calculate_FormulaCalculator | Len08_C | Len08_C |          9 |     21.71 ns |   0.097 ns |   0.081 ns |      - |      - |         - |
+| Calculate_FormulaCalculator | Len16_A | Len16_A |         16 |     36.75 ns |   0.148 ns |   0.131 ns |      - |      - |         - |
+| Calculate_FormulaCalculator | Len16_B | Len16_B |         16 |     35.43 ns |   0.324 ns |   0.287 ns |      - |      - |         - |
+| Calculate_FormulaCalculator | Len16_C | Len16_C |         17 |     34.44 ns |   0.216 ns |   0.202 ns |      - |      - |         - |
+| Calculate_FormulaCalculator | Len64_A | Len64_A |         64 |    192.44 ns |   2.133 ns |   1.995 ns |      - |      - |         - |
+| Calculate_FormulaCalculator | Len64_B | Len64_B |         65 |    160.79 ns |   2.478 ns |   2.318 ns |      - |      - |         - |
+| Calculate_FormulaCalculator | Len64_C | Len64_C |         67 |    176.52 ns |   3.545 ns |   3.641 ns |      - |      - |         - |
+| Calculate_ClosedXml         | Len08_A | Len08_A |          8 |    835.21 ns |   3.478 ns |   3.253 ns | 0.2050 |      - |    1720 B |
+| Calculate_ClosedXml         | Len08_B | Len08_B |          9 |    855.10 ns |   5.380 ns |   5.032 ns | 0.2050 |      - |    1720 B |
+| Calculate_ClosedXml         | Len08_C | Len08_C |          9 |    856.86 ns |   4.320 ns |   3.607 ns | 0.2050 |      - |    1720 B |
+| Calculate_ClosedXml         | Len16_A | Len16_A |         16 |  1,123.98 ns |   3.585 ns |   3.353 ns | 0.2403 |      - |    2016 B |
+| Calculate_ClosedXml         | Len16_B | Len16_B |         16 |  1,130.33 ns |   3.216 ns |   2.851 ns | 0.2403 |      - |    2016 B |
+| Calculate_ClosedXml         | Len16_C | Len16_C |         17 |  1,150.69 ns |   6.532 ns |   6.110 ns | 0.2403 |      - |    2016 B |
+| Calculate_ClosedXml         | Len64_A | Len64_A |         64 |  3,889.22 ns |   9.824 ns |   9.190 ns | 0.5112 |      - |    4336 B |
+| Calculate_ClosedXml         | Len64_B | Len64_B |         65 |  3,397.87 ns |  14.484 ns |  12.095 ns | 0.4883 |      - |    4096 B |
+| Calculate_ClosedXml         | Len64_C | Len64_C |         67 |  3,623.39 ns |  17.475 ns |  16.346 ns | 0.4959 |      - |    4176 B |
+| Calculate_DataTable         | Len08_A | Len08_A |          8 |    388.87 ns |   2.332 ns |   2.182 ns | 0.3133 | 0.0005 |    2624 B |
+| Calculate_DataTable         | Len08_B | Len08_B |          9 |    414.30 ns |   7.301 ns |   6.829 ns | 0.3152 | 0.0005 |    2640 B |
+| Calculate_DataTable         | Len08_C | Len08_C |          9 |    408.05 ns |   3.793 ns |   3.548 ns | 0.3152 |      - |    2640 B |
+| Calculate_DataTable         | Len16_A | Len16_A |         16 |    571.54 ns |   2.944 ns |   2.754 ns | 0.3548 |      - |    2992 B |
+| Calculate_DataTable         | Len16_B | Len16_B |         16 |    612.57 ns |   4.124 ns |   3.858 ns | 0.3586 |      - |    3000 B |
+| Calculate_DataTable         | Len16_C | Len16_C |         17 |    631.32 ns |   2.139 ns |   2.001 ns | 0.3586 |      - |    3016 B |
+| Calculate_DataTable         | Len64_A | Len64_A |         64 |  2,452.50 ns |   8.593 ns |   8.038 ns | 0.7935 |      - |    6704 B |
+| Calculate_DataTable         | Len64_B | Len64_B |         65 |  2,340.80 ns |  19.408 ns |  18.154 ns | 0.7324 |      - |    6152 B |
+| Calculate_DataTable         | Len64_C | Len64_C |         67 |  2,387.95 ns |  13.852 ns |  12.957 ns | 0.7477 |      - |    6344 B |
+| Calculate_IronPython        | Len08_A | Len08_A |          8 |  9,918.66 ns |  93.264 ns |  87.239 ns | 5.0964 | 0.4578 |   42683 B |
+| Calculate_IronPython        | Len08_B | Len08_B |          9 |  9,980.16 ns |  72.612 ns |  67.922 ns | 5.1117 | 0.3815 |   42836 B |
+| Calculate_IronPython        | Len08_C | Len08_C |          9 | 10,466.19 ns |  80.814 ns |  75.594 ns | 5.0659 | 0.3662 |   42828 B |
+| Calculate_IronPython        | Len16_A | Len16_A |         16 | 10,657.89 ns |  88.630 ns |  82.905 ns | 5.1270 | 0.3662 |   43108 B |
+| Calculate_IronPython        | Len16_B | Len16_B |         16 | 10,015.94 ns | 135.260 ns | 126.522 ns | 5.0049 | 0.4272 |   42044 B |
+| Calculate_IronPython        | Len16_C | Len16_C |         17 | 10,564.43 ns |  69.028 ns |  64.569 ns | 5.1270 | 0.3662 |   43284 B |
+| Calculate_IronPython        | Len64_A | Len64_A |         64 | 18,642.51 ns | 260.965 ns | 244.107 ns | 6.8359 | 0.4883 |   57486 B |
+| Calculate_IronPython        | Len64_B | Len64_B |         65 | 16,765.16 ns | 134.484 ns | 125.796 ns | 6.4697 | 0.4883 |   54845 B |
+| Calculate_IronPython        | Len64_C | Len64_C |         67 | 16,992.80 ns | 106.027 ns |  99.178 ns | 6.5918 | 0.4883 |   55197 B |
+| Calculate_NCalc             | Len08_A | Len08_A |          8 |    196.32 ns |   1.870 ns |   1.657 ns | 0.1223 |      - |    1024 B |
+| Calculate_NCalc             | Len08_B | Len08_B |          9 |    189.36 ns |   0.767 ns |   0.718 ns | 0.1194 |      - |    1000 B |
+| Calculate_NCalc             | Len08_C | Len08_C |          9 |    186.45 ns |   2.240 ns |   2.095 ns | 0.1194 |      - |    1000 B |
+| Calculate_NCalc             | Len16_A | Len16_A |         16 |    297.12 ns |   1.159 ns |   1.084 ns | 0.1545 |      - |    1296 B |
+| Calculate_NCalc             | Len16_B | Len16_B |         16 |    261.86 ns |   0.704 ns |   0.588 ns | 0.1516 |      - |    1272 B |
+| Calculate_NCalc             | Len16_C | Len16_C |         17 |    247.65 ns |   0.596 ns |   0.557 ns | 0.1488 |      - |    1248 B |
+| Calculate_NCalc             | Len64_A | Len64_A |         64 |  1,389.48 ns |   2.934 ns |   2.450 ns | 0.6371 | 0.0019 |    5344 B |
+| Calculate_NCalc             | Len64_B | Len64_B |         65 |  1,133.92 ns |   1.565 ns |   1.464 ns | 0.5226 | 0.0019 |    4384 B |
+| Calculate_NCalc             | Len64_C | Len64_C |         67 |  1,080.65 ns |   1.585 ns |   1.405 ns | 0.5589 | 0.0019 |    4680 B |
+| Calculate_xFunc             | Len08_A | Len08_A |          8 |    338.06 ns |   0.584 ns |   0.456 ns | 0.0420 |      - |     352 B |
+| Calculate_xFunc             | Len08_B | Len08_B |          9 |    342.14 ns |   0.791 ns |   0.740 ns | 0.0420 |      - |     352 B |
+| Calculate_xFunc             | Len08_C | Len08_C |          9 |    338.30 ns |   0.715 ns |   0.669 ns | 0.0420 |      - |     352 B |
+| Calculate_xFunc             | Len16_A | Len16_A |         16 |    566.78 ns |   3.248 ns |   3.038 ns | 0.0572 |      - |     480 B |
+| Calculate_xFunc             | Len16_B | Len16_B |         16 |    556.56 ns |   2.125 ns |   1.884 ns | 0.0572 |      - |     480 B |
+| Calculate_xFunc             | Len16_C | Len16_C |         17 |    555.61 ns |   1.131 ns |   1.058 ns | 0.0572 |      - |     480 B |
+| Calculate_xFunc             | Len64_A | Len64_A |         64 |  2,943.05 ns |   8.477 ns |   7.929 ns | 0.2708 |      - |    2272 B |
+| Calculate_xFunc             | Len64_B | Len64_B |         65 |  2,526.29 ns |   6.291 ns |   5.885 ns | 0.2251 |      - |    1888 B |
+| Calculate_xFunc             | Len64_C | Len64_C |         67 |  2,630.50 ns |   5.780 ns |   5.407 ns | 0.2403 |      - |    2016 B |
+| Calculate_ExprTk            | Len08_A | Len08_A |          8 | 34,275.61 ns | 203.251 ns | 190.121 ns |      - |      - |         - |
+| Calculate_ExprTk            | Len08_B | Len08_B |          9 | 34,451.75 ns | 131.928 ns | 116.951 ns |      - |      - |         - |
+| Calculate_ExprTk            | Len08_C | Len08_C |          9 | 34,407.37 ns | 107.142 ns | 100.221 ns |      - |      - |         - |
+| Calculate_ExprTk            | Len16_A | Len16_A |         16 | 35,368.64 ns | 139.659 ns | 123.804 ns |      - |      - |         - |
+| Calculate_ExprTk            | Len16_B | Len16_B |         16 | 35,488.66 ns | 129.281 ns | 107.955 ns |      - |      - |         - |
+| Calculate_ExprTk            | Len16_C | Len16_C |         17 | 35,418.56 ns | 184.912 ns | 163.920 ns |      - |      - |         - |
+| Calculate_ExprTk            | Len64_A | Len64_A |         64 | 46,183.22 ns | 204.457 ns | 191.249 ns |      - |      - |         - |
+| Calculate_ExprTk            | Len64_B | Len64_B |         65 | 43,953.11 ns | 324.386 ns | 303.431 ns |      - |      - |         - |
+| Calculate_ExprTk            | Len64_C | Len64_C |         67 | 44,669.55 ns | 228.474 ns | 213.715 ns |      - |      - |         - |
